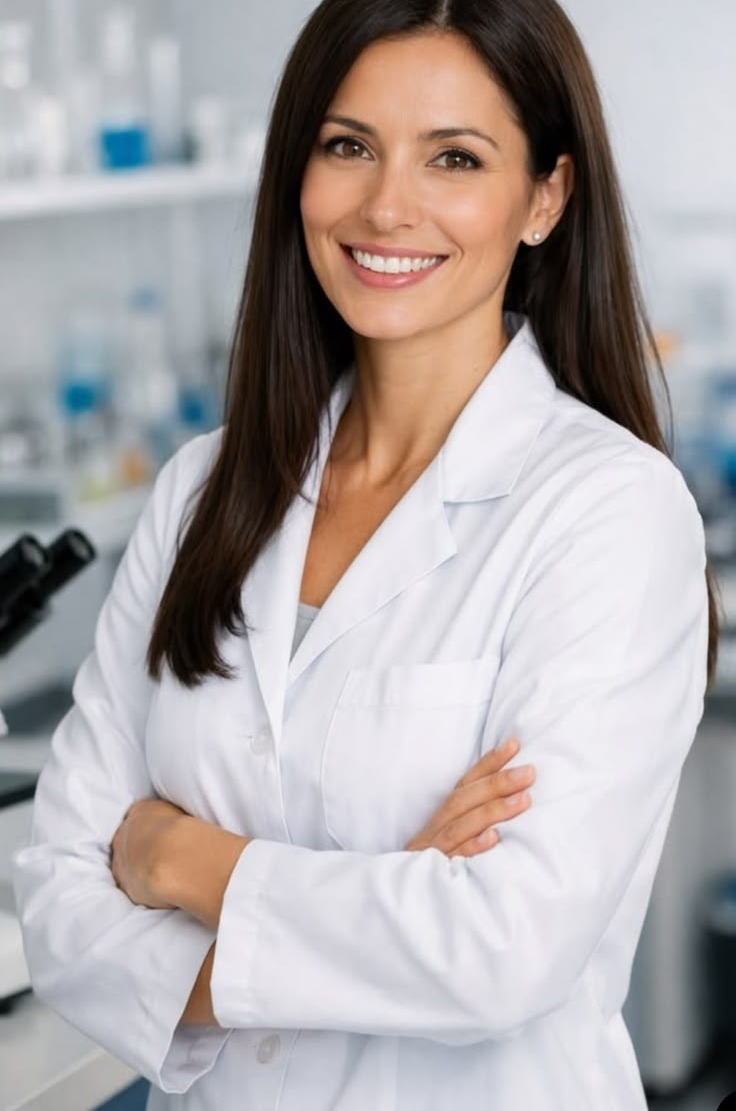
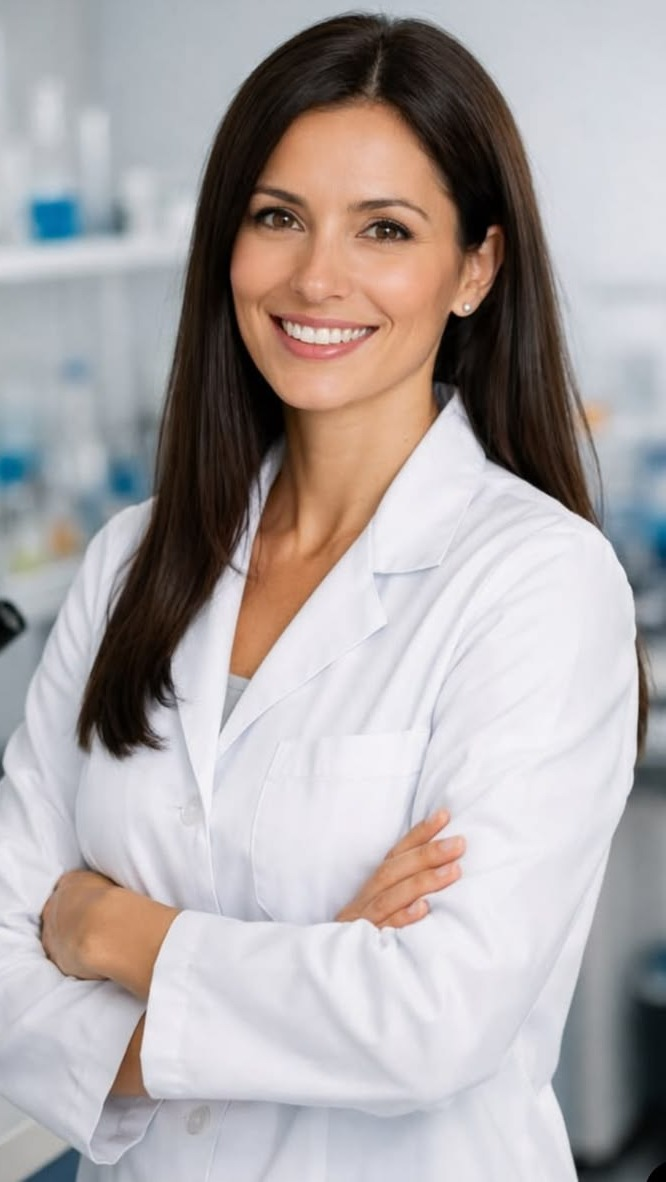
Stop the first and fourth portraits cropping the hair
Both sources are taller than the 3:4 card, so a centred crop takes a slice off
the top as well as the bottom, and on these two the subject stands high enough
that the top slice took the top of their hair. The crop is now anchored per
doctor, and these two anchor to the top so the whole crop is spent on the coat
below.

The first portrait had a second cause. Removing the screenshot close button
from its corner, I trimmed the top of the frame, which cut into her hair
directly. The original is restored and the button comes off the left edge
instead, where the strip carries only shelving: she stands centre right.

Claude-Session: https://claude.ai/code/session_011iJsddQhG1HFCJhGS8i8xn

diff --git a/src/content/clinic.ts b/src/content/clinic.ts
@@ -329,6 +329,14 @@ export type Doctor = {
   photoSeed: string;
   /** Path under /public. PLACEHOLDER portrait, see docs/CONTENT-CHECKLIST.md. */
   photo: string;
+  /**
+   * Where the portrait's 3:4 crop is anchored. These sources are taller than
+   * the card, so a centred crop takes a slice off the top as well as the
+   * bottom, and on the frames where the subject stands high it takes the top
+   * of their hair with it. Anchoring to the top spends the whole crop on the
+   * coat below instead.
+   */
+  photoPosition?: "top" | "center";
 };
 
 /** PLACEHOLDER: sample specialists. Replace with the clinic's real team. */
@@ -347,6 +355,7 @@ export const doctors: Doctor[] = [
     ],
     photoSeed: "lumera-doctor-av",
     photo: "/photo/doctors/vereschagina.jpg",
+    photoPosition: "top",
   },
   {
     slug: "oganesyan",
@@ -392,6 +401,7 @@ export const doctors: Doctor[] = [
     ],
     photoSeed: "lumera-doctor-ry",
     photo: "/photo/doctors/yagudin.jpg",
+    photoPosition: "top",
   },
 ];
 

diff --git a/src/components/sections/Doctors.tsx b/src/components/sections/Doctors.tsx
@@ -47,7 +47,9 @@ export default function Doctors() {
                   spec="800 x 1066"
                   label={`Портрет: ${doctor.name}, ${doctor.role}`}
                   sizes="(max-width: 640px) 100vw, (max-width: 1280px) 50vw, 25vw"
-                  className="object-cover transition-transform duration-[900ms] ease-[cubic-bezier(0.22,1,0.36,1)] group-hover:scale-[1.05]"
+                  className={`object-cover transition-transform duration-[900ms] ease-[cubic-bezier(0.22,1,0.36,1)] group-hover:scale-[1.05] ${
+                    doctor.photoPosition === "top" ? "object-top" : "object-center"
+                  }`}
                 />
                 <div className="absolute inset-0 bg-gradient-to-t from-graphite via-graphite/25 to-transparent" />
 

diff --git a/src/app/uslugi/[slug]/page.tsx b/src/app/uslugi/[slug]/page.tsx
@@ -197,7 +197,9 @@ export default async function ServicePage({ params }: Params) {
                       spec="800 x 1066"
                       label={`Портрет: ${doctor.name}, ${doctor.role}`}
                       sizes="(max-width: 640px) 100vw, 25vw"
-                      className="object-cover"
+                      className={`object-cover ${
+                        doctor.photoPosition === "top" ? "object-top" : "object-center"
+                      }`}
                     />
                     <div className="absolute inset-0 bg-gradient-to-t from-graphite via-graphite/20 to-transparent" />
                     <div className="absolute inset-x-0 bottom-0 p-5">
